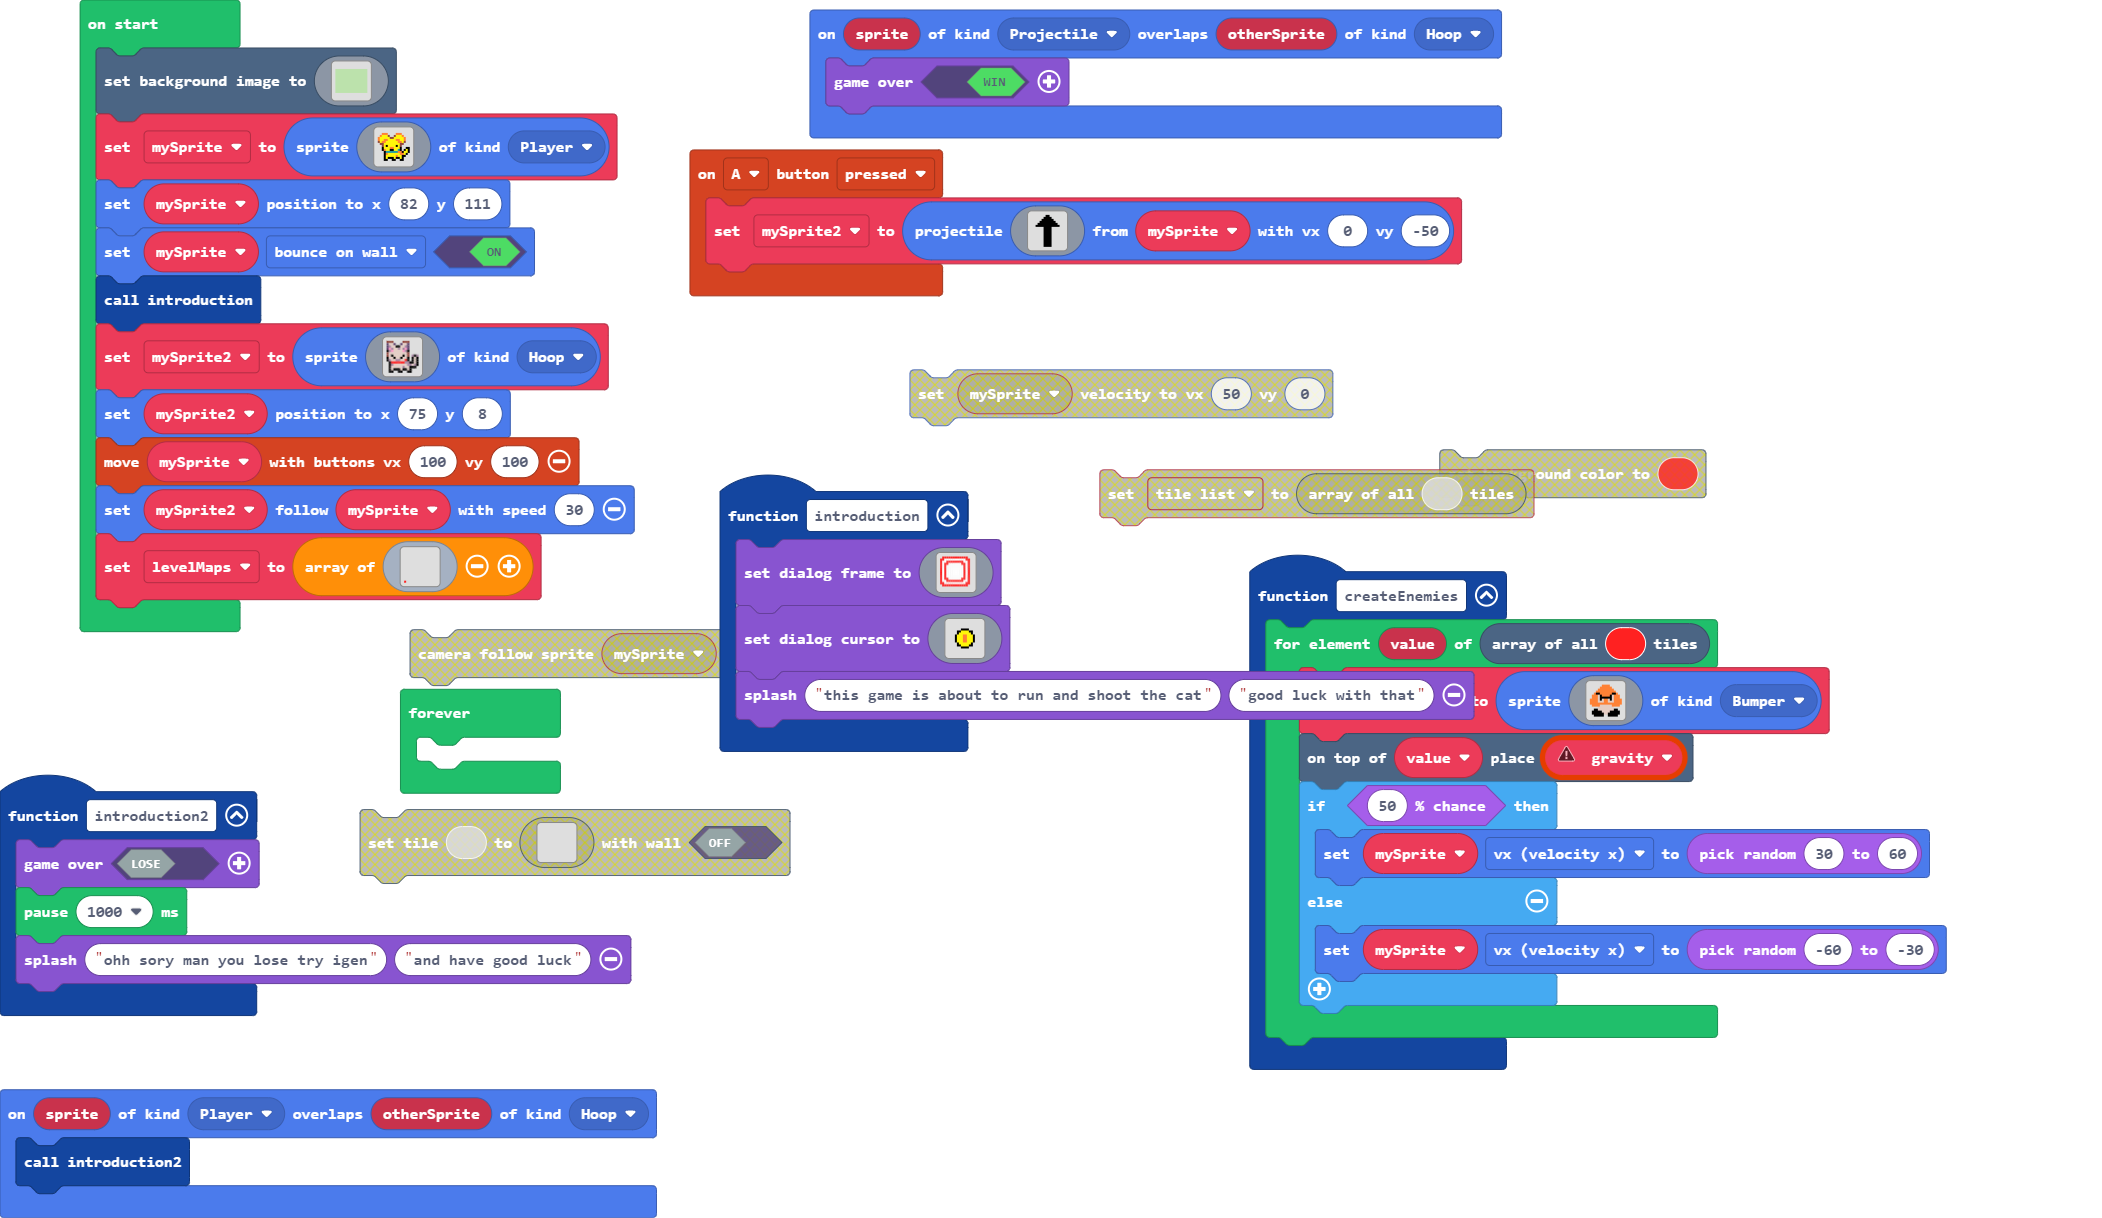
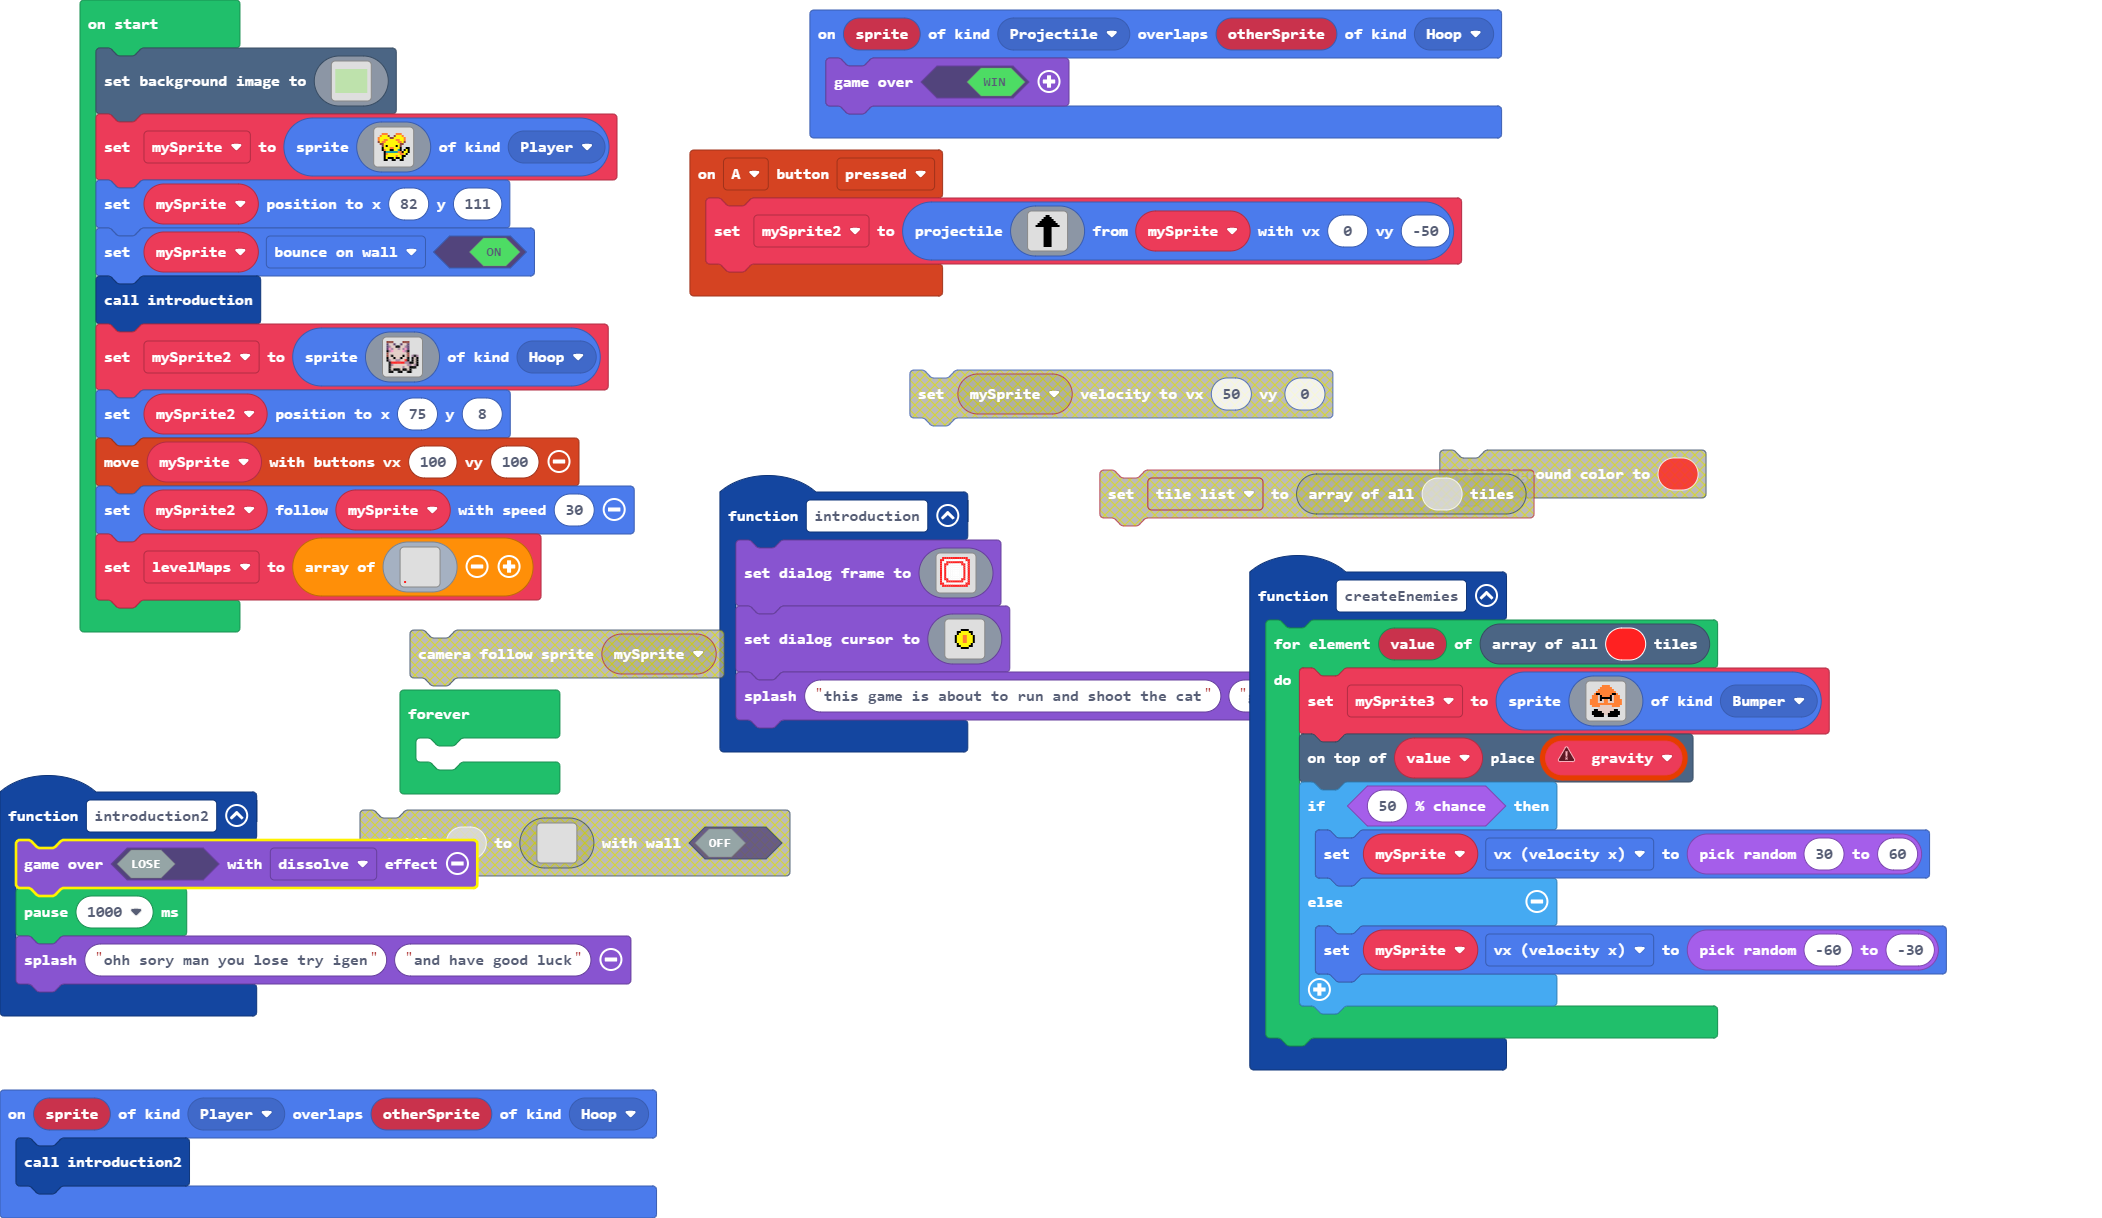
Dissolve effect

diff --git a/main.ts b/main.ts
@@ -67,7 +67,7 @@ sprites.onOverlap(SpriteKind.Player, SpriteKind.Hoop, function (sprite, otherSpr
     introduction2()
 })
 function introduction2 () {
-    game.over(false)
+    game.over(false, effects.dissolve)
     pause(1000)
     game.splash("ohh sory man you lose try igen", "and have good luck")
 }
